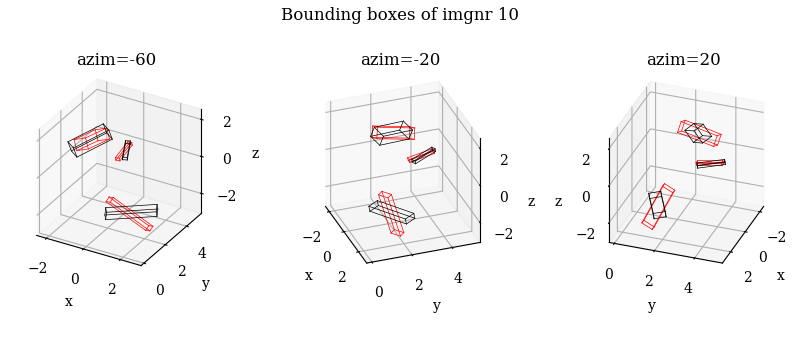
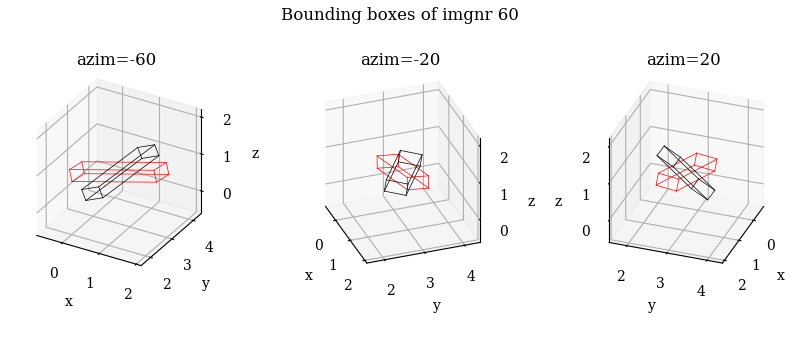
mAP dont work lol

diff --git a/volume/calc.py b/volume/calc.py
@@ -4,12 +4,14 @@ from numpy.core.fromnumeric import sort
 import pandas as pd 
 from ioulib import Box, iou, plot_box, get_mesh_from_box
 from matplotlib import pyplot as plt 
-from typing import Iterable, Sequence, Tuple, List, Union
+from typing import Iterable, Optional, Sequence, Tuple, List, Union
 from copy import copy
 import pymesh
 from matplotlib.ticker import NullFormatter
 plt.rcParams.update({'font.family': 'serif', 'mathtext.fontset':'dejavuserif'})
 from debug import debug, debugs, debugt
+from tqdm import tqdm
+from multiprocessing import Pool
 
 
 SPAWNBOX_DIM = np.array((3.5999999046325684, 3.5999999046325684, 3.5999999046325684))
@@ -66,7 +68,7 @@ def set_axes_equal(ax):
     ax.set_zlim3d([z_middle - plot_radius, z_middle + plot_radius])
 
 
-def plot_boxes(df_outputs, df_labels, imgnr):
+def plot_boxes(df_outputs, df_labels, imgnr, thresh: Optional[float] = None):
     outputs = get_meshes_from_df(df_outputs.query("imgnr==@imgnr"))
     labels = get_meshes_from_df(df_labels.query("imgnr==@imgnr"))
     
@@ -129,17 +131,29 @@ def nms_from_df(df_outputs: pd.DataFrame, imgnr: int, threshold: float=0.5):
 
 def _calc_ap(df_outputs: pd.DataFrame, df_labels: pd.DataFrame, threshold: float, results: np.ndarray):
     '''
-    df_outputs and df_labels should only contain boxes respective a single class and a single imgnr
-
     results: np.ndarray, not the whole result matrix, but just for a single class, should use 
-                         custom dtype
-    '''
-    outputs = get_boxes_from_df(df_outputs)
-    labels = get_boxes_from_df(df_labels)
+                         custom dtype. Will be mutated
 
-    for labelbox in labels:
-        for outputbox in outputs:
-            debug(iou(outputbox, labelbox))
+    df_outputs and df_labels should only contain boxes respective a single class and a single imgnr.
+    '''
+    outputboxes = get_boxes_from_df(df_outputs)
+    labelboxes = get_boxes_from_df(df_labels)
+    
+    for labelbox in labelboxes:
+        for i, outputbox in enumerate(outputboxes):
+            iou_ = iou(outputbox, labelbox)
+
+            # True positive
+            if iou_ > threshold:
+                outputboxes.pop(i)
+                results['TP'] += 1
+                break
+        else:
+            # False negative if true box is not predicted
+            results['FN'] += 1
+    
+    # Any remaining outputboxes implies false positives
+    results['FP'] += len(outputboxes)
 
 
 def calc_ap_from_dfs(
@@ -152,8 +166,8 @@ def calc_ap_from_dfs(
     Assumes that unique(df_outputs.imgnr) == unique(df_labels.imgnr)
     '''
     results = np.zeros((n_classes), dtype=np.dtype([('TP', int), ('FP', int), ('FN', int)]))
-
-    for (imgnr, dfLabelImgnr) in df_labels.groupby('imgnr'):
+    tqdmkwargs = {'ascii':True, 'ncols':70, 'desc':f"AP{int(threshold*100)}"}
+    for (imgnr, dfLabelImgnr) in tqdm(df_labels.groupby('imgnr', sort=False), **tqdmkwargs):
         for class_ in range(n_classes):
             dfOuts = df_outputs.query(f"imgnr=={imgnr} & class_=={class_}")
             dfLabels = dfLabelImgnr.query(f"class_=={class_}")
@@ -161,28 +175,49 @@ def calc_ap_from_dfs(
             lenOuts = len(dfOuts)
             lenLabels = len(dfLabels)
 
-            # No predictions, no targets -> Do nothing
+            # No predictions, no labels -> Do nothing
             if (lenOuts + lenLabels) == 0:
                 continue
 
-            # Predictions, but no targets -> False positives
+            # Predictions, but no labels -> False positives
             if (lenOuts > 0) and (lenLabels == 0):
                 results[class_]['FP'] += lenOuts
                 continue
             
-            # No predictions, but there are targets -> False Negatives
+            # No predictions, but there are labels -> False Negatives
             if (lenOuts == 0) and (lenLabels > 0):
                 results[class_]['FN'] += lenLabels
                 continue
 
-            debug(imgnr)
-            debug(class_)
-            _calc_ap(dfOuts, dfLabels, threshold, results[class_])
-            print()
-        # break
+            _calc_ap(dfOuts, dfLabels, threshold, results[class_])            
+    
+    TP, FP, FN = results['TP'].sum(), results['FP'].sum(), results['FN'].sum()
+    precision = TP / (TP + FP)
+    recall = TP / (TP + FN)
+
+    return precision, recall, results
+
 
 if __name__ == '__main__':
     df_outputs = pd.read_csv('nogit_train_output.csv')
     df_labels = pd.read_csv('nogit_train_labels.csv')
-    calc_ap_from_dfs(df_outputs, df_labels, 0.5, 6)
-    # plot_boxes(df_outputs, df_labels, 10)
+    # plot_boxes(df_outputs, df_labels, 60)
+    precision, recall, result =\
+        calc_ap_from_dfs(df_outputs.query("imgnr==60"), df_labels.query("imgnr==60"), 0.5, 6)
+    print(precision)
+    print(recall)
+    print(result)
+
+
+    exit()
+    precisions = []
+    recalls = []
+    results = []
+    threshs = [0.1,0.2,0.3,0.4,0.5,0.6,0.7,0.8,0.9]
+    for thresh in tqdm(threshs, disable=True):
+        precision, recall, result = calc_ap_from_dfs(df_outputs, df_labels, thresh, 6)
+        precisions.append(precision)
+        recalls.append(recall)
+        results.append(result)
+    
+    pd.DataFrame({'thresh':threshs, 'precision':precisions, 'recall':recalls}).to_csv("prcurves.csv", index=False)

diff --git a/volume/curveviz.py b/volume/curveviz.py
@@ -1,0 +1,11 @@
+import numpy as np
+import pandas as pd 
+from matplotlib import pyplot as plt 
+
+df = pd.read_csv('prcurves.csv')
+print(df)   
+
+plt.plot(df.recall, df.precision, c='green')
+plt.xlabel('Recall')
+plt.ylabel('Precision')
+plt.savefig('prfig.png')

diff --git a/volume/mock.py b/volume/mock.py
@@ -1,6 +1,3 @@
-from ioulib import Box, iou, get_mesh_from_box
+import numpy as np 
 
-box1 = Box([1,1], [1,1], [0,0])
-box2 = Box([0,0], [1,1], [0,0])
-print(box1.get_mesh().vertices)
-print(box2.get_mesh().vertices)
+
